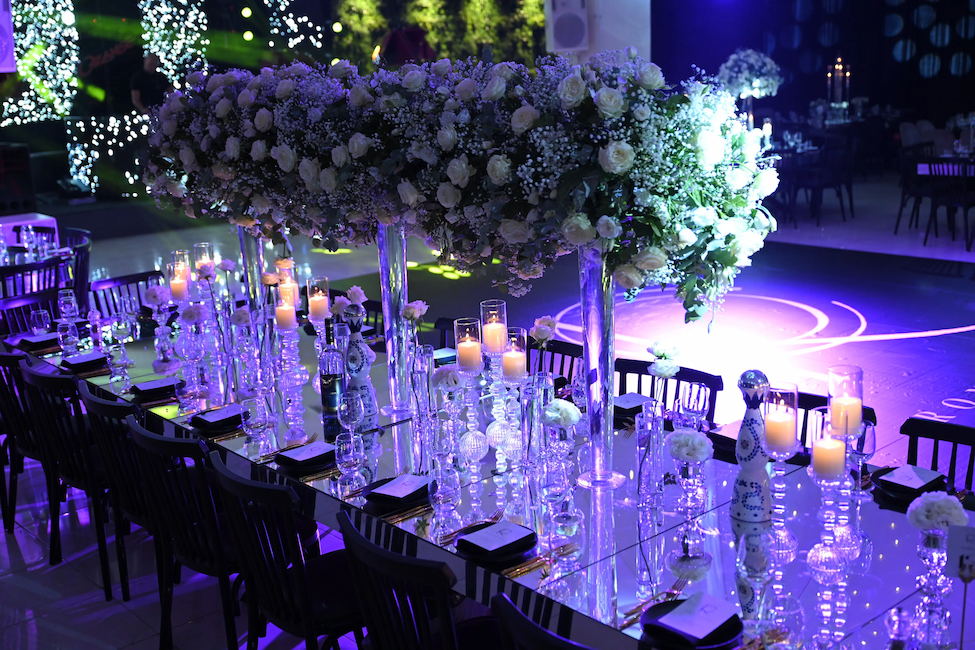
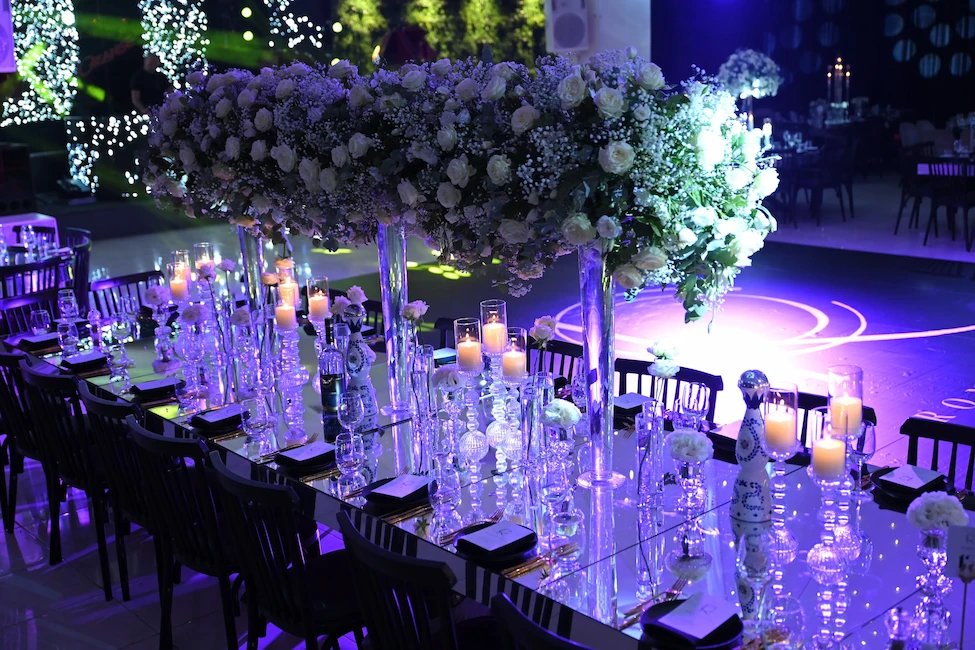
modified - gfonts, toastify. deleted - unused .svgs

diff --git a/index.html b/index.html
@@ -10,15 +10,11 @@
 
     <link rel="preload" as="image" href="/layout/arrangement-6.webp" importance="high">
 
-    <link rel="preload"
-        href="https://fonts.gstatic.com/s/assistant/v20/raxfHx_yLxgYhJ2LrWJhFmRgfNaShcwPdq8D5GUvWkBg0b8VrUWqJ2V8S-FaRWJltJvzSy1OhNVUxFh2N4U.woff2"
-        as="font" type="font/woff2" crossorigin>
-
-    <link rel="stylesheet" href="https://fonts.googleapis.com/css2?family=Assistant:wght@200..800&display=swap">
+    <link rel="stylesheet" href="https://fonts.googleapis.com/css2?family=Assistant:wght@200..800&display=swap" media="print" onload="this.media='all'">
+    <noscript><link rel="stylesheet" href="https://fonts.googleapis.com/css2?family=Assistant:wght@200..800&display=swap"></noscript>
 
     <link rel="stylesheet" href="/css/main.css">
     <link rel="stylesheet" href="/css/mobile.css" media="(max-width: 1000px)">
-
 
     <link rel="icon" href="/alegro-logo.webp">
     <link rel="apple-touch-icon" href="/alegro-logo.webp">

diff --git a/public/css/main.css b/public/css/main.css
@@ -275,7 +275,7 @@ button {
     justify-content: space-between;
     padding: 1em 3.5em;
 
-    gap: 1em;
+    gap: 3em;
     min-height: 45cqh;
 
     transform: translateY(-35px);
@@ -317,8 +317,8 @@ button {
 }
 
 .meet-us {
-    font-size: 2.4rem;
-    font-weight: 600;
+    font-size: 2rem;
+    font-weight: 500;
     text-decoration: underline;
     align-self: flex-end !important;
     justify-self: flex-end !important;
@@ -461,7 +461,7 @@ button {
 
 /* <!-- ----Intro Section--------> */
 .intro-section {
-    padding: 5em 0;
+    padding: 5em 0em;
     display: flex;
     flex-direction: column;
     align-items: center;
@@ -469,7 +469,7 @@ button {
 }
 
 .intro-text {
-    width: 66%;
+    width: 56%;
     font-size: 2rem;
     color: #626060;
     text-align: center;

diff --git a/src/js/main.js b/src/js/main.js
@@ -3,14 +3,17 @@ document.addEventListener('DOMContentLoaded', async () => {
     const { initNav } = await import('./components/navigation/navbar/navbar.js');
     initNav();
 
-    if (document.querySelector('#contactForm')) {
+    if (document.querySelector('#contactForm')){
         const { initForm } = await import('./components/forms/formHandler.js');
         initForm();
-    }
+    };
+});
 
-    import('./utils/toastify/toast.js').then(({ infoMsg }) => {
+window.addEventListener('load', async () => {
+    if (document.querySelector('#contactForm')) {
+        const {infoMsg} = await import('./utils/toastify/toast.js');
         infoMsg("ברוכים הבאים לאלגרו !");
-    });
+    }
 });
 
 document.addEventListener("DOMContentLoaded", () => {

diff --git a/src/js/components/forms/formHandler.js b/src/js/components/forms/formHandler.js
@@ -1,10 +1,8 @@
 const API_URL = import.meta.env.VITE_API_URL;
 
-import Toastify from 'toastify-js';
 import 'toastify-js/src/toastify.css';
 import '../../utils/toastify/css/toast.css';
-import { errorMsg, infoMsg, loadingMsg, successMsg } from '../../utils/toastify/toast';
-
+import { errorMsg, loadingMsg, successMsg } from '../../utils/toastify/toast';
 
 export function initForm(){
     addInputValidation();

diff --git a/src/js/utils/toastify/css/toast.css b/src/js/utils/toastify/css/toast.css
@@ -2,10 +2,10 @@
 
 .toastify {
     direction: rtl;
-    background: black;
+    background: black !important;
     color: #E7D8BA !important;
 
-    border-radius: 12px;
+    border-radius: 12px !important;
     padding: 10px 12px;
     font-weight: 500;
 
